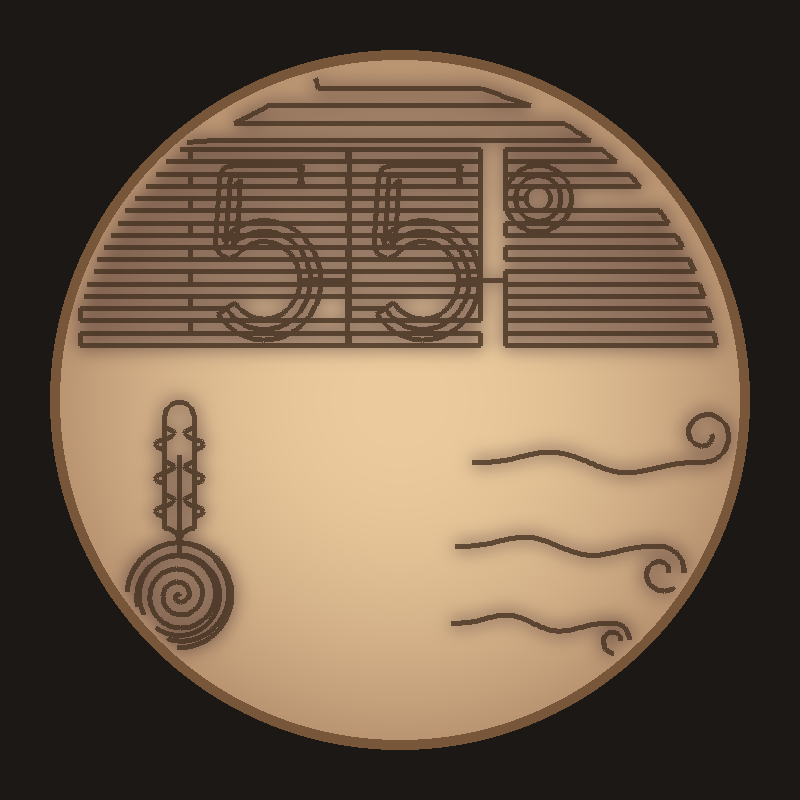
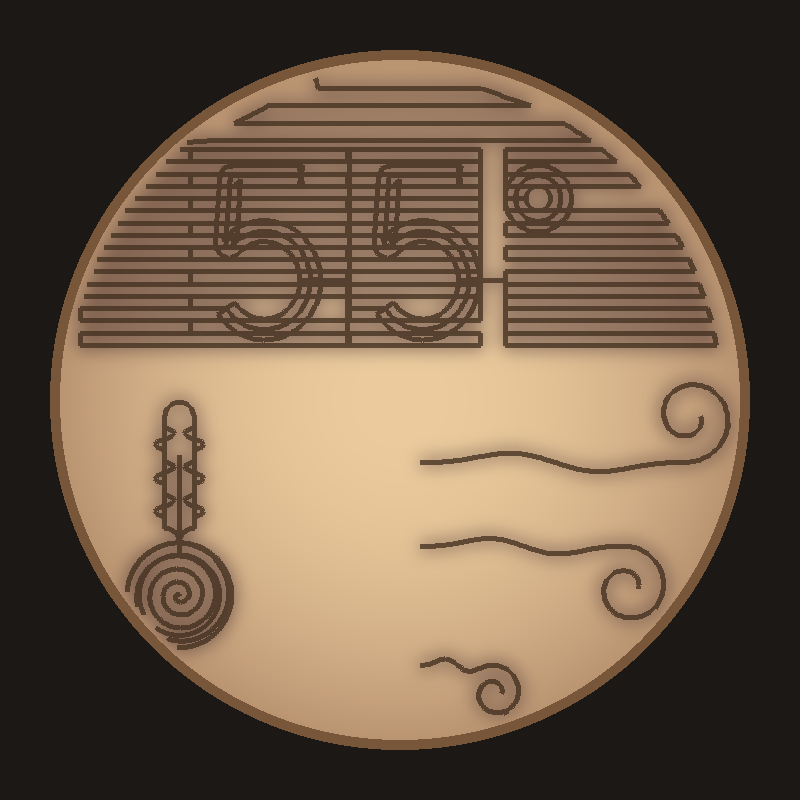
Enlarge the wind curls and leave a sunny gust along a ray.
The curls are about one and a half times the previous radius, staggered so they stay clear of each other and the temperature. A sunny gust continues one ray to the rim instead of cutting across the sun.

Changed region(s): [[0.5312, 0.6562, 0.875, 0.9062], [0.5312, 0.4688, 0.9375, 0.5938]]

diff --git a/custom_components/homedics_drift/weather_design.py b/custom_components/homedics_drift/weather_design.py
@@ -923,16 +923,18 @@ def wind_gusts():
     """
     path = []
     # y, wave amplitude, curl radius, curl upward.
+    # Curls are about one and a half times the previous size. The lines stay
+    # far enough apart that a curl does not meet the wave above or below it.
     rows = (
-        (-0.08, 0.055, 0.09, True),
-        (-0.30, 0.05, 0.085, True),
-        (-0.52, 0.048, 0.08, True),
-        (-0.68, 0.04, 0.075, False),
+        (-0.18, 0.05, 0.135, True, 0.02),
+        (-0.42, 0.048, 0.12, True, 0.30),
+        (-0.64, 0.045, 0.11, True, 0.54),
+        (-0.76, 0.038, 0.095, False, 0.10),
     )
-    for y, amp, curl, up in rows:
+    for y, amp, curl, up, x1 in rows:
         start = _on_rim(y, -1)[0]
-        room = _on_rim(y, 1)[0] - curl - 0.08
-        stroke = _retrace(_wave(start, min(0.46, room), y, amp, curl, up))
+        room = _on_rim(y, 1)[0] - curl - 0.05
+        stroke = _retrace(_wave(start, min(x1, room), y, amp, curl, up))
         # A second trip over the same groove. It adds no new line.
         stroke = stroke + stroke[1:]
         if path:
@@ -942,10 +944,15 @@ def wind_gusts():
 
 
 def _draw_from_rim(path, pts):
-    """Draw a gust that sits inside the table, starting and ending on the right rim."""
-    index = max(range(len(pts)), key=lambda i: pts[i][0])
+    """Draw a gust that sits inside the table, starting and ending on the rim.
+
+    The join is the short radial from the point already nearest the edge, so a
+    curl that bulges down does not grow a horizontal line out to the rim.
+    """
+    index = max(range(len(pts)), key=lambda i: math.hypot(*pts[i]))
     outer = pts[index]
-    rim = _on_rim(outer[1], 1)
+    radius = math.hypot(*outer) or 1.0
+    rim = (outer[0] / radius * RIM, outer[1] / radius * RIM)
     stroke = _resample(
         [rim]
         + pts[index:]
@@ -962,21 +969,26 @@ def _draw_from_rim(path, pts):
 def _side_gusts():
     """Three wavy gusts on the right of a combined picture. No divider."""
     path = []
-    # Top rolls up, middle rolls down, bottom curl is smaller.
+    # Top rolls up, middle rolls down, bottom curl is smaller. Radii are about
+    # one and a half times the earlier curls. Each tip sits as far right as the
+    # spiral can go without leaving the sand or meeting the line beside it.
     rows = (
-        (-0.18, 0.045, 0.08, True),
-        (-0.42, 0.04, 0.075, False),
-        (-0.64, 0.035, 0.05, False),
+        (-0.18, 0.040, 0.13, True),
+        (-0.42, 0.034, 0.12, False),
+        (-0.76, 0.028, 0.08, False),
     )
+    limit = 0.942
+    left = 0.06
     for y, amp, curl, up in rows:
-        rim_x = _on_rim(y, 1)[0]
-        pts = _wave(0.08, rim_x - curl - 0.12, y, amp, curl, up)
-        # Slide the curl out until it nearly touches the rim, so the return
-        # to the edge is shorter than the groove and does not read as a stroke.
-        outer = max(pts, key=lambda p: p[0])
-        shift = _on_rim(outer[1], 1)[0] - outer[0] - 0.012
-        pts = [(p[0] + shift, p[1]) for p in pts]
-        path = _draw_from_rim(path, pts)
+        lo, hi = left + 0.08, 0.92
+        for _ in range(28):
+            mid = (lo + hi) / 2
+            spiral = _open_curl((mid, y), curl, 1.25, up)
+            if max(math.hypot(*p) for p in spiral) <= limit:
+                lo = mid
+            else:
+                hi = mid
+        path = _draw_from_rim(path, _wave(left, lo, y, amp, curl, up))
     return path
 
 
@@ -1003,11 +1015,37 @@ def _park(y, reach):
     return -math.sqrt(room) + reach
 
 
+def _sunny_emblem():
+    """A sun on the left. The way out to the rim continues one ray, so it does not cut the others."""
+    center = (-0.40, -0.48)
+    rays = 12
+    day = sun(center, r_in=0.11, r_out=0.28, rays=rays, disc=0.10)
+
+    def snap_tip(phi):
+        return round(phi * rays / (2 * math.pi)) * 2 * math.pi / rays
+
+    day.snap = snap_tip
+    outward = math.atan2(center[1], center[0])
+    path = day.draw((center[0] + math.cos(outward), center[1] + math.sin(outward)))
+    tip = path[-1]
+    dx, dy = tip[0] - center[0], tip[1] - center[1]
+    span = dx * dx + dy * dy
+    if span < 1e-8:
+        return path
+    # The ray from the sun's centre through the tip, continued to the table edge.
+    beam = 2 * (center[0] * dx + center[1] * dy)
+    rest = center[0] * center[0] + center[1] * center[1] - RIM * RIM
+    root = math.sqrt(max(0.0, beam * beam - 4 * span * rest))
+    reach = max((-beam + root) / (2 * span), (-beam - root) / (2 * span))
+    if reach > 1.02:
+        path += line(tip, (center[0] + reach * dx, center[1] + reach * dy))[1:]
+    return path
+
+
 def _emblem(name):
     """The day's symbol on the left. The path ends on the left rim, so gusts join along the edge."""
     if name == "sunny":
-        day = sun((-0.36, -0.42), r_in=0.12, r_out=0.30, rays=12, disc=0.11)
-        return _draw_shapes([day], leave=(day.c[0] - 1.4, day.c[1]))
+        return _sunny_emblem()
     if name == "hot":
         bulb_r, bulb_y = 0.15, -0.56
         return _thermometer(

diff --git a/CHANGELOG.md b/CHANGELOG.md
@@ -2,7 +2,7 @@
 
 ## 1.4.2
 
-- Wind is four long wavy lines under the temperature, evenly spaced, each ending in a large round curl. The upper curls roll up and the bottom curl rolls down. A combined picture keeps the symbol on the left and puts three curled gusts on the right.
+- Wind is four long wavy lines under the temperature, evenly spaced, each ending in a large round curl. The upper curls roll up and the bottom curl rolls down. A combined picture keeps the symbol on the left and puts three curled gusts on the right. The curls are about one and a half times the earlier size, and on a sunny gust picture the ball leaves along a ray instead of cutting across the sun.
 - The pattern preview on the card is turned by the same weather rotation that is sent to the table, so the card matches the sand.
 
 ## 1.4.1
